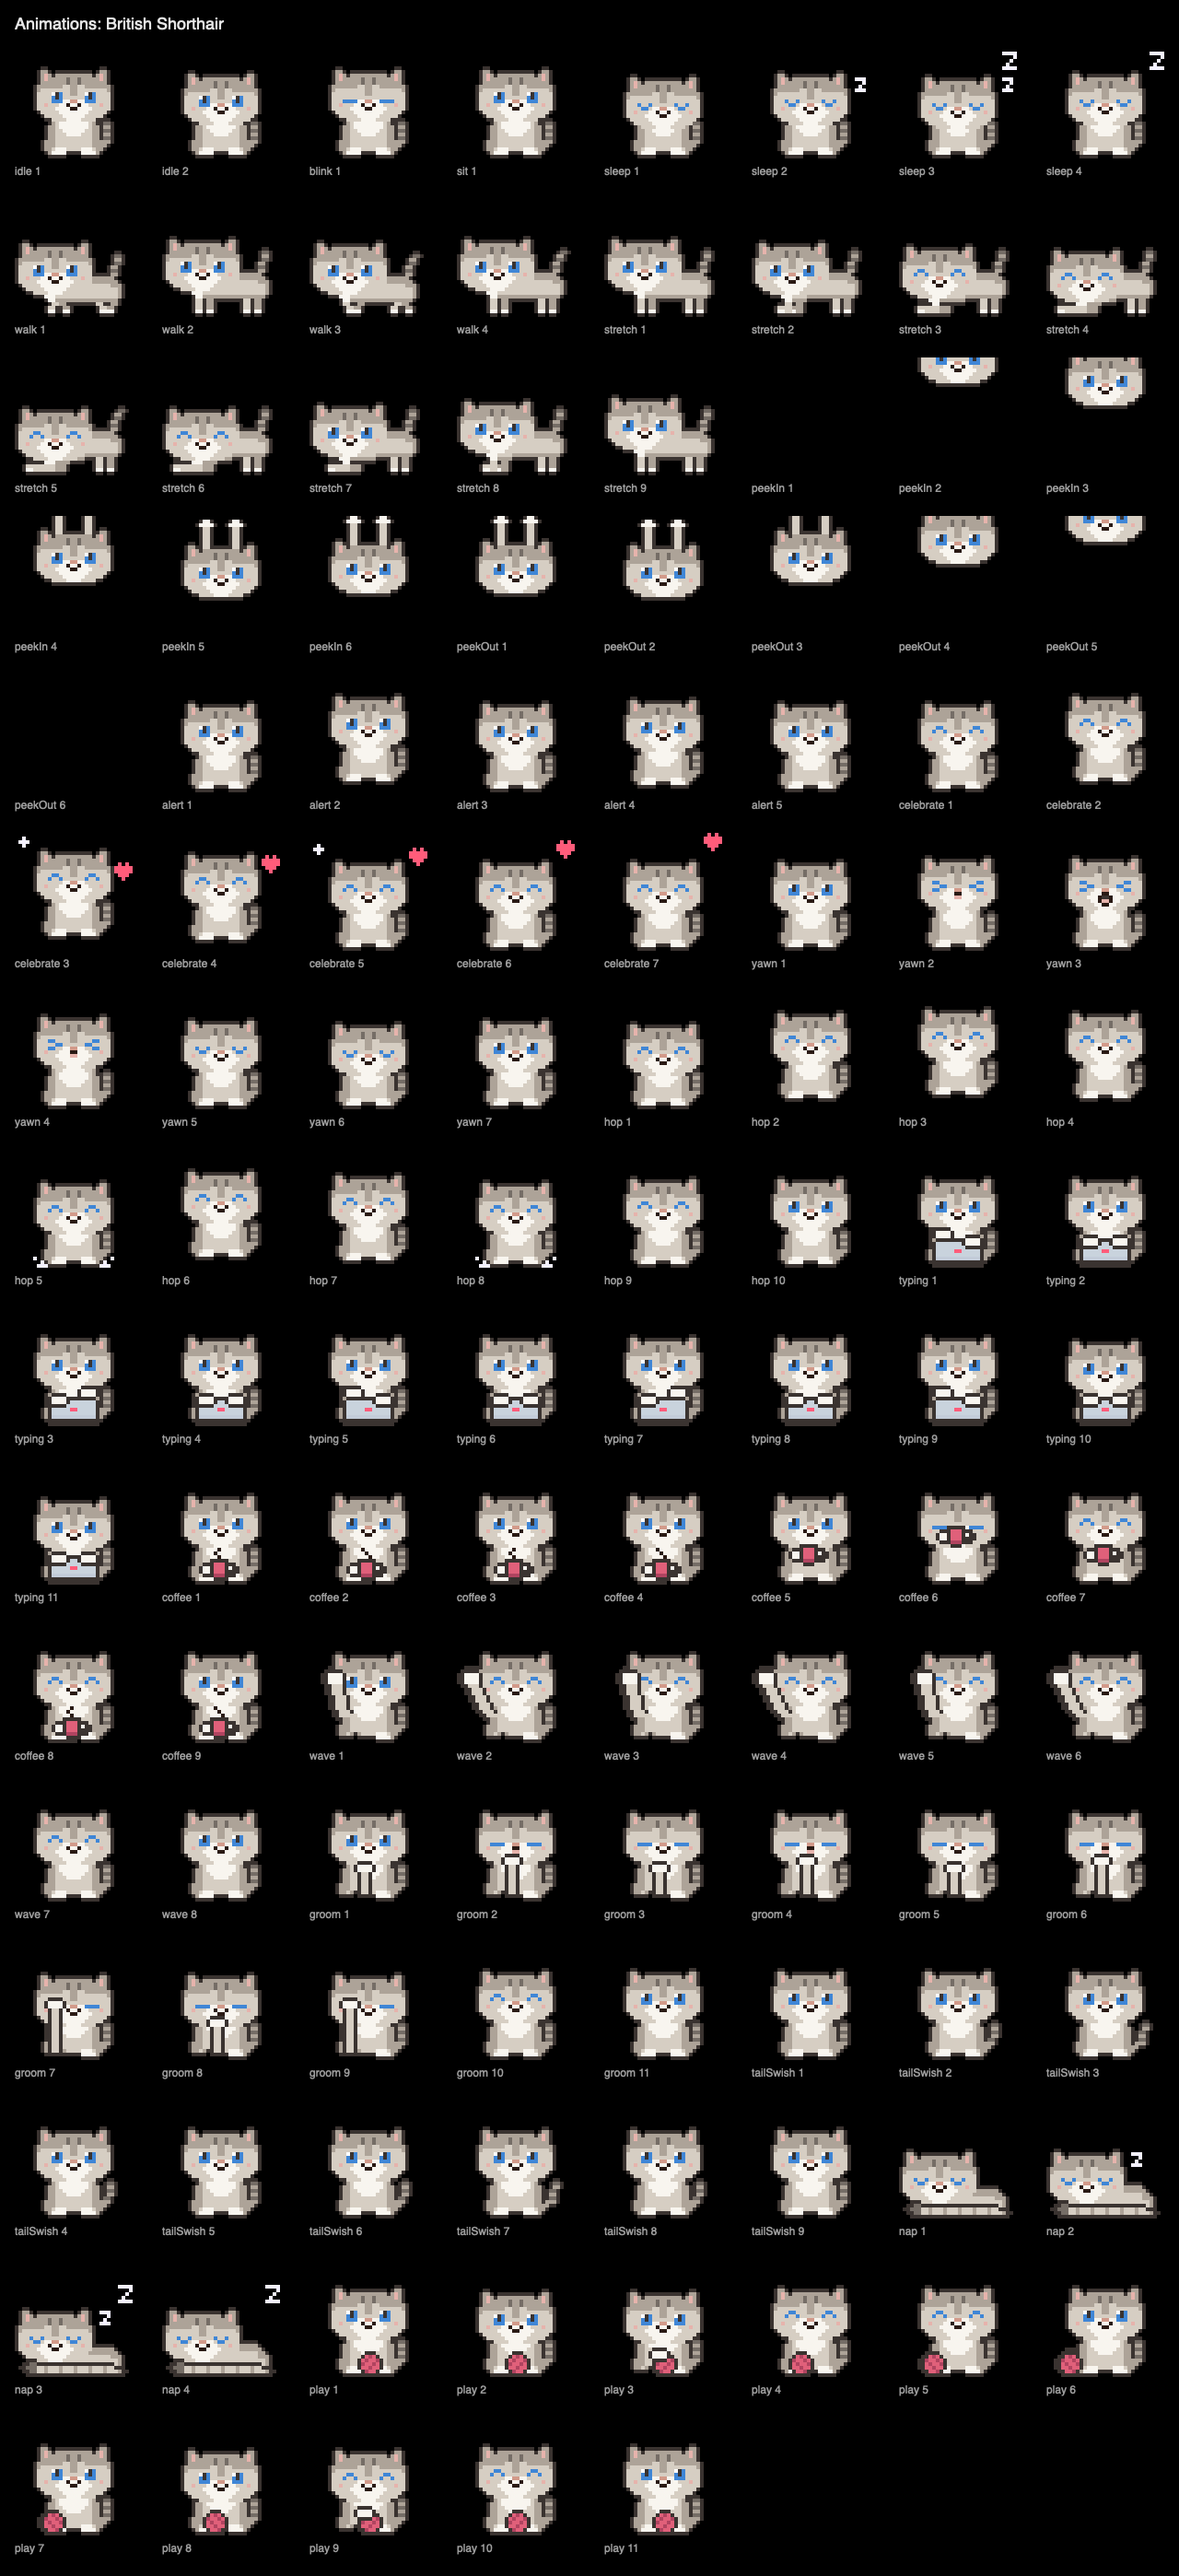
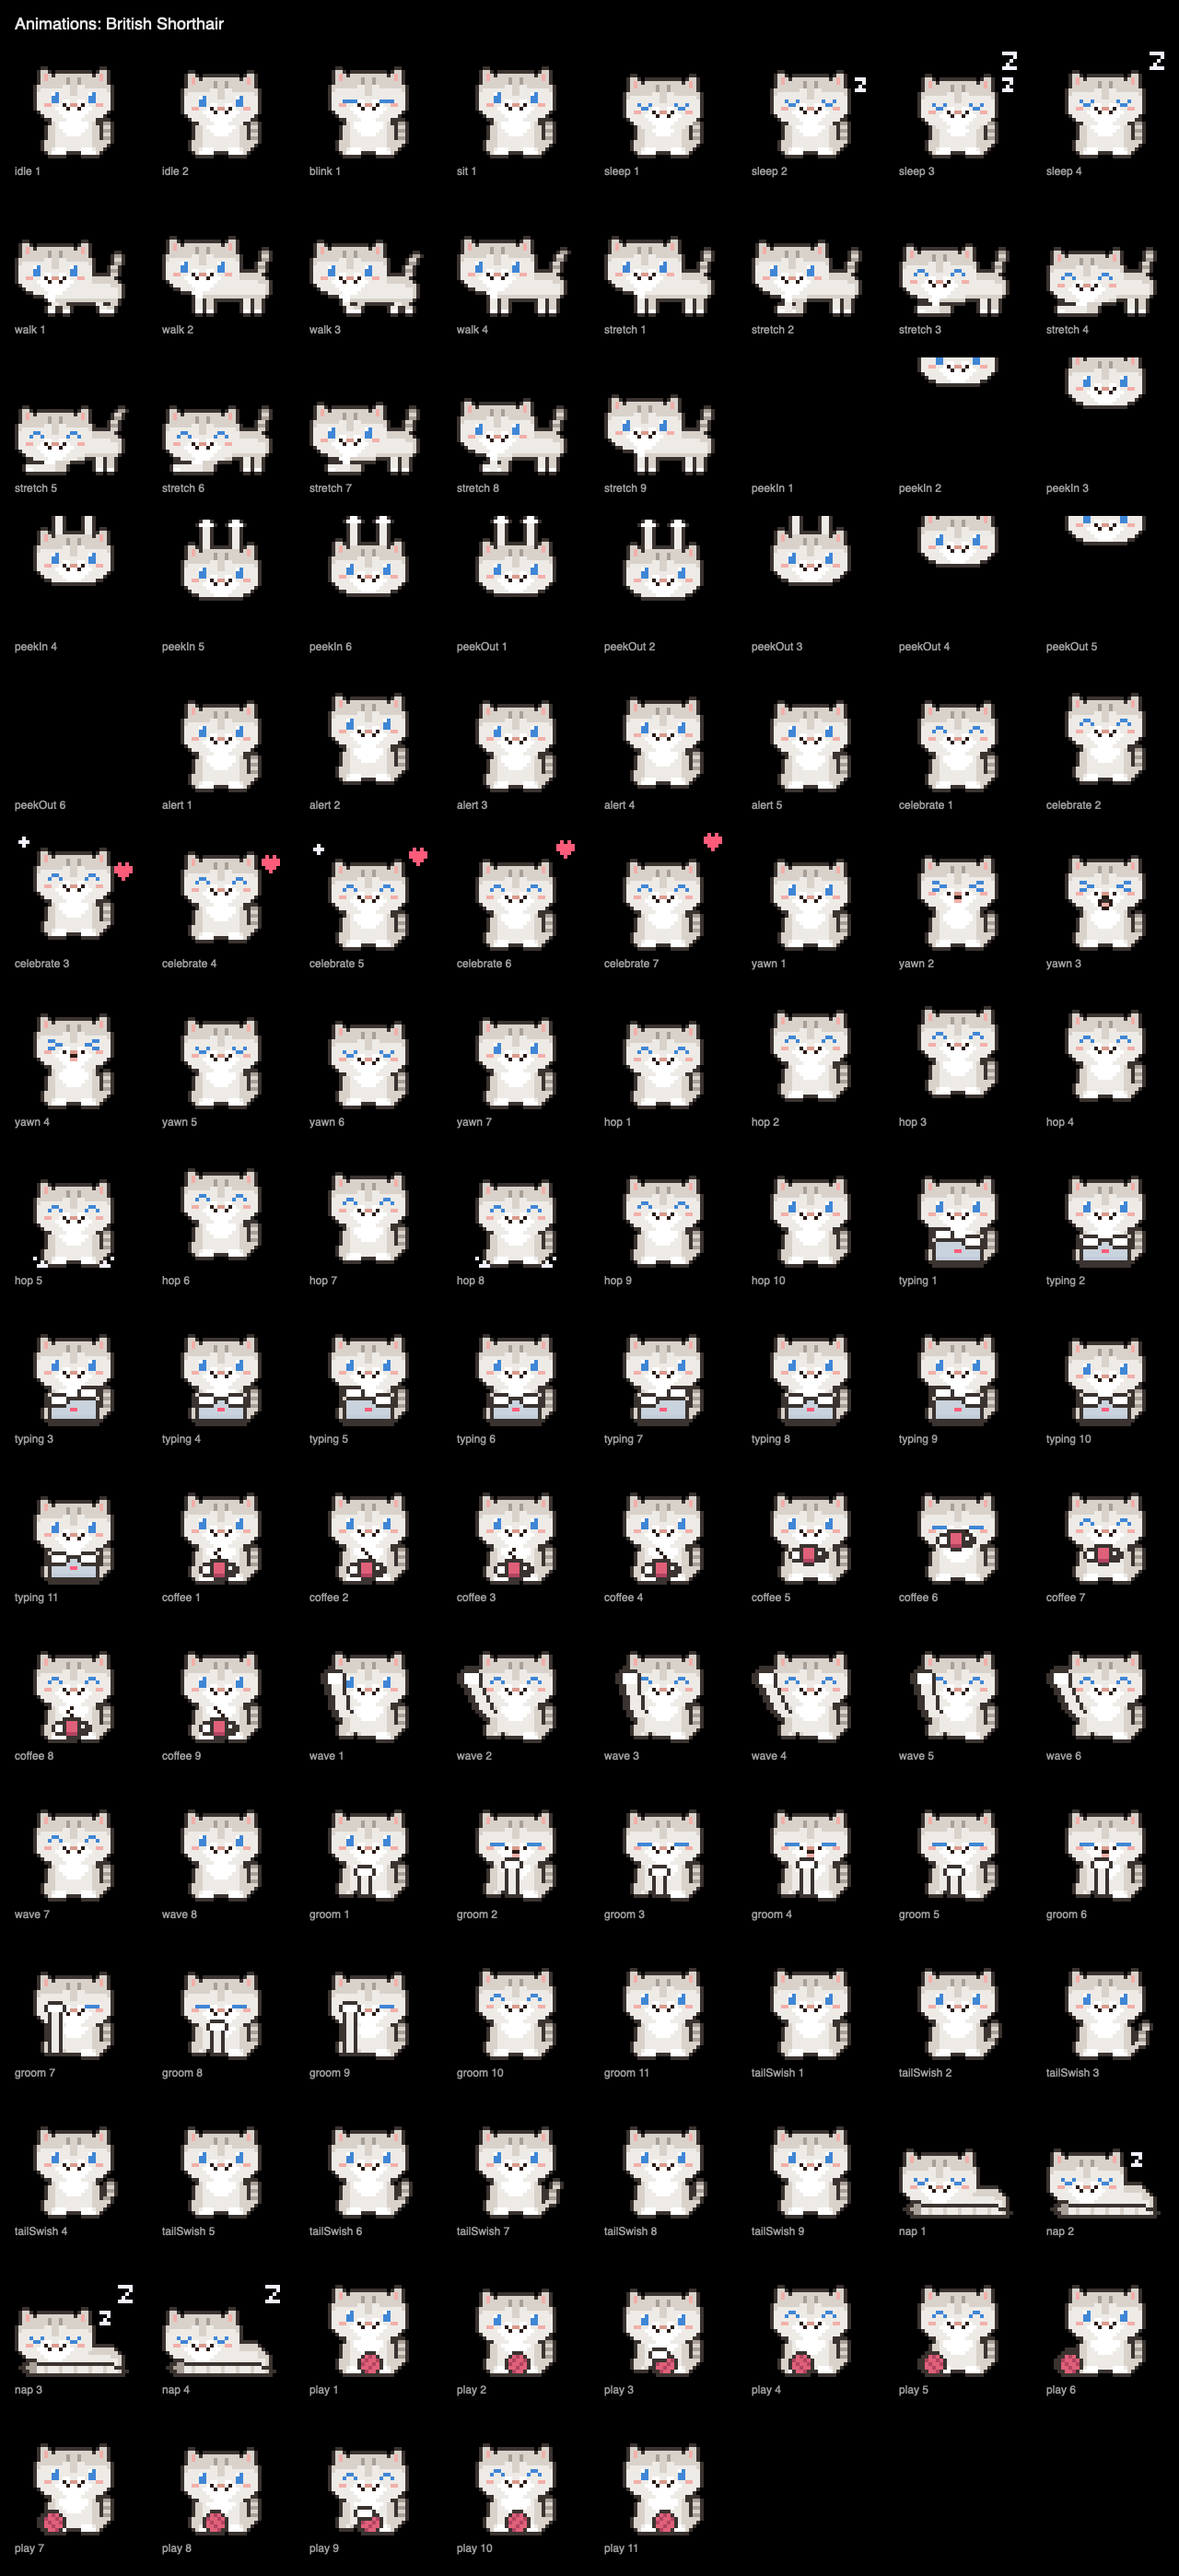
feat(pets): The British Shorthair now uses the shared cat 2x3 eye (verified pixel for pixel against the other cats in every animation), the shared nose and mouth, and a whiter soft white-silver coat with subtle ticking and stronger blush.

diff --git a/Tests/TabbiKitCoreTests/PetsProfileTests.swift b/Tests/TabbiKitCoreTests/PetsProfileTests.swift
@@ -77,42 +77,39 @@ final class PetProfileTests: XCTestCase {
         XCTAssertLessThan(ringCount(PetComposer.sitting(.grayTabby)), 3, "plain cats keep their plain tail")
     }
 
-    func testTheBritishShorthairHasOpenBlueEyesThatStillClose() {
+    func testTheBritishShorthairHasTheSharedCatEyesInBlue() {
         let palette = PetBreed.britishShorthair.palette
         XCTAssertGreaterThan(Int(palette[.eye].blue), Int(palette[.eye].red) + 80, "a clear blue iris")
         XCTAssertGreaterThan(palette[.eyeLight].luminance, 0.9, "a white highlight")
 
-        // Open eyes: one highlight per eye, each beside a dark pupil and
-        // above the blue iris.
-        func highlights(_ canvas: PetCanvas) -> [(x: Int, y: Int)] {
+        // The eye and highlight pixels land exactly where every plain cat's
+        // do: a 2x3 eye with the highlight at its top left.
+        func eyePixels(_ canvas: PetCanvas) -> [String] {
             (0..<canvas.height).flatMap { y in
-                (0..<canvas.width).filter { canvas[$0, y] == .eyeLight }.map { (x: $0, y: y) }
-            }
-        }
-        let clips = PetClipSet(profile: PetProfile(name: "", breed: .britishShorthair))
-        for animation in [PetAnimation.idle, .sit, .walk, .alert] {
-            for frame in clips[animation].frames {
-                let sparkles = highlights(frame.canvas)
-                XCTAssertEqual(sparkles.count, 2, "\(animation)")
-                for sparkle in sparkles {
-                    XCTAssertEqual(frame.canvas[sparkle.x + 1, sparkle.y], .outline, "pupil beside the highlight")
-                    XCTAssertEqual(frame.canvas[sparkle.x, sparkle.y + 1], .eye, "iris below the highlight")
+                (0..<canvas.width).compactMap { x in
+                    let role = canvas[x, y]
+                    return role == .eye || role == .eyeLight ? "\(x),\(y),\(role!.symbol)" : nil
                 }
             }
         }
-        // Blinking and sleeping close the whole eye, pupil included.
-        for animation in [PetAnimation.blink, .sleep] {
-            for frame in clips[animation].frames {
-                XCTAssertTrue(highlights(frame.canvas).isEmpty, "\(animation)")
+        let reference = eyePixels(PetComposer.sitting(.orangeTabby))
+        XCTAssertEqual(reference.count, 12)
+        XCTAssertEqual(eyePixels(PetComposer.sitting(.britishShorthair)), reference)
+        let clips = PetClipSet(profile: PetProfile(name: "", breed: .britishShorthair))
+        let tabby = PetClipSet(profile: PetProfile(name: "", breed: .orangeTabby))
+        for animation in PetAnimation.allCases {
+            for (frame, plain) in zip(clips[animation].frames, tabby[animation].frames) {
+                XCTAssertEqual(eyePixels(frame.canvas), eyePixels(plain.canvas), "\(animation)")
             }
         }
-        let open = PetComposer.sitting(.britishShorthair)
-        let blink = PetComposer.sitting(.britishShorthair, pose: PetPose(eyes: .closed))
-        for sparkle in highlights(open) {
-            for y in sparkle.y..<sparkle.y + 2 {
-                XCTAssertNotEqual(blink[sparkle.x + 1, y], .outline, "no pupil left floating in a closed eye")
-            }
-        }
+    }
+
+    func testTheBritishShorthairHasASoftWhiteSilverCoat() {
+        let palette = PetBreed.britishShorthair.palette
+        XCTAssertGreaterThan(palette[.furBase].luminance, 0.8, "a white-silver base")
+        XCTAssertGreaterThan(palette[.furShade].luminance, 0.6, "ticking stays faint")
+        XCTAssertLessThan(palette[.furAccent].luminance, palette[.furShade].luminance, "tail rings still show")
+        XCTAssertNotEqual(palette[.furBase], PetBreed.whiteCat.palette[.furBase], "still not the white cat")
     }
 
     func testStarterMatchesTheChosenSpecies() {

diff --git a/Sources/TabbiKitCore/Pets/PetBreed.swift b/Sources/TabbiKitCore/Pets/PetBreed.swift
@@ -143,11 +143,12 @@ public enum PetBreed: String, CaseIterable, Codable, Sendable {
             return PetPalette([.furBase: c("#F3E6D2"), .furShade: c("#DCCAB0"), .furAccent: c("#5A4034"),
                                .belly: c("#FBF4E8"), .eye: c("#3E8FD8"), .outline: c("#3A2A22")])
         case .britishShorthair:
-            // Shaded silver: pale silver-beige with a taupe back, white chin
-            // and chest, clear blue eyes, and a pink-tan nose.
-            return PetPalette([.furBase: c("#D6CEC3"), .furShade: c("#ADA398"), .furAccent: c("#756D66"),
-                               .belly: c("#F8F5EF"), .eye: c("#3F86D6"), .eyeLight: c("#FFFFFF"),
-                               .nose: c("#D29A8A"), .blush: c("#E6B3AC"), .outline: c("#3A3330")])
+            // Shaded silver: a soft white-silver coat with a faintly ticked
+            // back and subtly ringed tail, white chin and chest, clear blue
+            // eyes, a pink-tan nose, and rosy cheeks.
+            return PetPalette([.furBase: c("#EEEBE7"), .furShade: c("#D8D2CB"), .furAccent: c("#A8A098"),
+                               .belly: c("#FFFFFF"), .eye: c("#3F86D6"), .eyeLight: c("#FFFFFF"),
+                               .nose: c("#D9998B"), .blush: c("#FB9FAA"), .outline: c("#3A3330")])
         case .sphynx:
             // Hairless pink-beige skin with deeper shade for wrinkles, a
             // rosy blush, and big green-gold eyes.

diff --git a/Sources/TabbiKitCore/Pets/Art/CatArt.swift b/Sources/TabbiKitCore/Pets/Art/CatArt.swift
@@ -41,9 +41,9 @@ enum CatArt {
         ....BBBBmmmmBBBB....
         """)
 
-    /// British Shorthair face: big round 3x3 blue eyes, each with a white
-    /// highlight and a tall pupil drawn in the outline color (blinking clears
-    /// it with the rest of the eye), and a small nose over a "u" smile.
+    /// British Shorthair face: the shared cat eyes (2x3, a highlight in the
+    /// top corner) in blue and the shared nose and "w" mouth, with
+    /// rosy cheeks.
     static let faceRound = SpriteGrid(art: """
         ....................
         ....................
@@ -52,11 +52,11 @@ enum CatArt {
         ....................
         ....................
         ....................
-        ....LOE......LOE....
-        ....EOE......EOE....
-        ....EEE..NN..EEE....
-        ..P.....R..R.....P..
-        .........RR.........
+        ....LE........LE....
+        ....EE........EE....
+        ....EE........EE....
+        ..PP...R.NN.R...PP..
+        ........R..R........
         ....................
         ....................
         ....................

diff --git a/docs/study/pets.md b/docs/study/pets.md
@@ -180,7 +180,7 @@ Each frame is the sitting composition in a `PetPose`, so every breed and costume
 | `lift` | Raises the whole pet off the baseline, for hops |
 
 Eye states live in `EffectArt` as 4x3 grids centered on the 2x3 open eye.
-A 3-wide open eye (the British Shorthair's) gets the spare pixel on its cheek side, and a pupil drawn in the outline color inside an eye is cleared with it.
+A 3-wide open eye (the Sphynx's) gets the spare pixel on its cheek side, and a pupil drawn in the outline color inside an eye is cleared with it.
 The composer finds the open eyes on the face's eye row, clears them so the head's fur shows through, and stamps the new state, so a new face only needs its open-eyed version.
 Sleepy eyes also close the mouth: blush pixels below the cheek row (the eye row + 3) are cleared, so a dog's panting tongue tucks away and its nose-colored mouth corners read as a closed "w".
 Draw a tongue with the blush role below the cheek row and it will hide itself during sleep.
@@ -378,9 +378,9 @@ It goes by "British Shorthair" until the user names it, and the Closet asks them
 
 What makes this cat recognizable, and where each part lives:
 
-- Coloring (`PetBreed.palette`): pale silver-beige fur, a taupe shade for the crown, back and flanks, a dark taupe accent for ticking and tail rings, a white muzzle, chin, chest and paws, a pink-tan nose, and clear blue eyes with white highlights.
+- Coloring (`PetBreed.palette`): soft white-silver fur, a faint silver shade for the crown, back and flanks, a pale taupe accent for subtle ticking and tail rings, a white muzzle, chin, chest and paws, a pink-tan nose, and clear blue eyes with white highlights.
 - Head (`CatArt.headRound`): small rounded ears set wide apart, a taupe crown with faint ticking that runs down the forehead, and full cheeks around the white muzzle.
-- Face (`CatArt.faceRound`): big, open 3x3 eyes (a blue iris around a tall dark pupil, with a white highlight in the top corner) and a small "u" smile under the nose.
+- Face (`CatArt.faceRound`): the same 2x3 eyes as every other cat (a white highlight at the top left) in clear blue, the shared nose and "w" mouth, and rosy cheeks.
   The maintainer asked for open, cute blue eyes rather than the photo's half-lidded look, so this is the one place the sprite departs from the reference.
 - Body (`CatArt.bodyRound`, `WalkArt.roundCatTorso`, `WalkArt.roundCatTail`): taupe flanks and back with ticking, full haunches, and a thick tail ringed with dark bands.
   These grids have the same size as the plain cat's, so every costume fits without new art.
